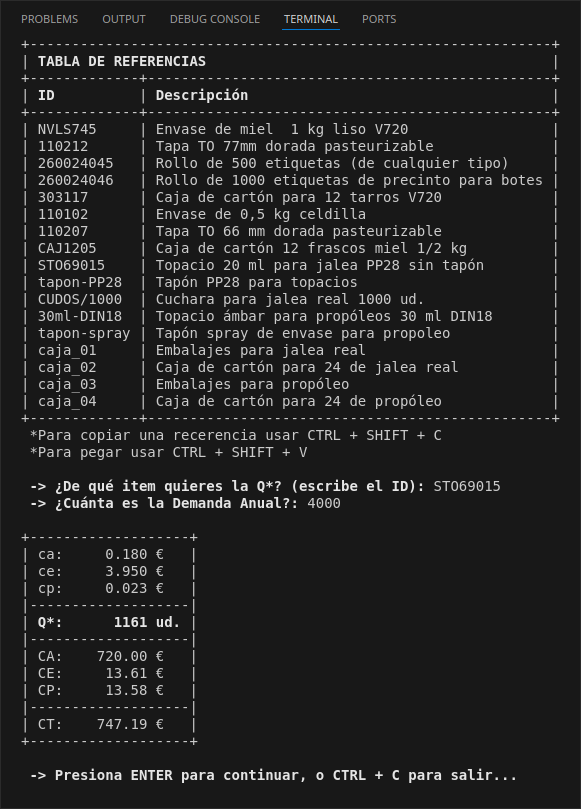
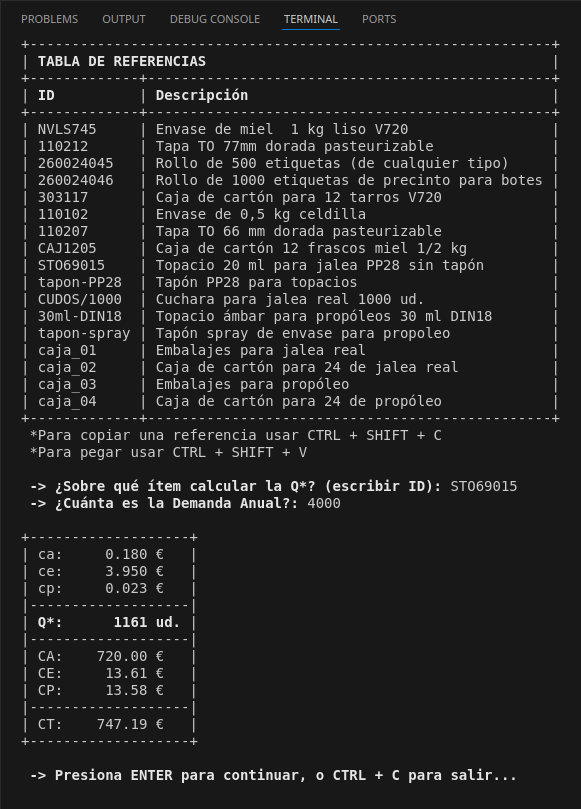
Updated Optimal Q program

diff --git a/EOQ/optimalQ.cpp b/EOQ/optimalQ.cpp
@@ -204,14 +204,14 @@ int main(void)
         cout << "| caja_03     | Embalajes para propóleo                        |" << endl;
         cout << "| caja_04     | Caja de cartón para 24 de propóleo             |" << endl;
         cout << "+-------------+------------------------------------------------+" << endl;
-        cout << " *Para copiar una recerencia usar CTRL + SHIFT + C                 " << endl;
+        cout << " *Para copiar una referencia usar CTRL + SHIFT + C                 " << endl;
         cout << " *Para pegar usar CTRL + SHIFT + V                                 " << endl;
 
         do
         {
             // Ask which reference is wanted to calculate the Q* from
-            cout << endl << BOLD << " -> ¿De qué item quieres la Q*? ";
-            cout << "(escribe el ID): " << RESET_COLOR;
+            cout << endl << BOLD << " -> ¿Sobre qué ítem calcular la Q*? ";
+            cout << "(escribir ID): " << RESET_COLOR;
             cin >> itemName;
             
             // Find reference
